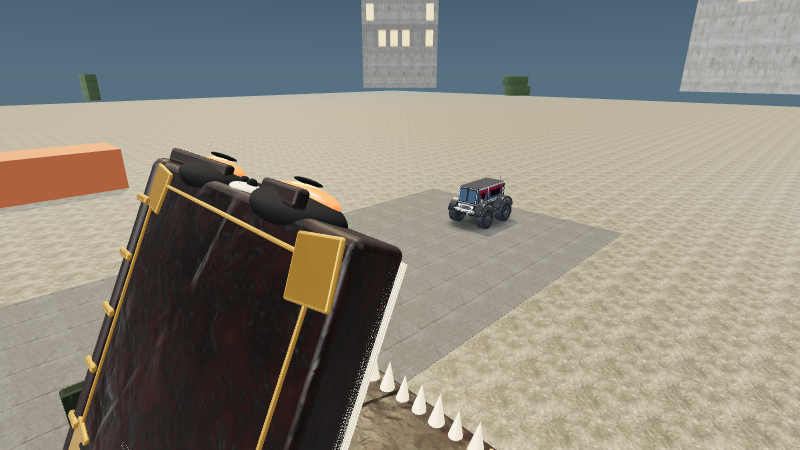
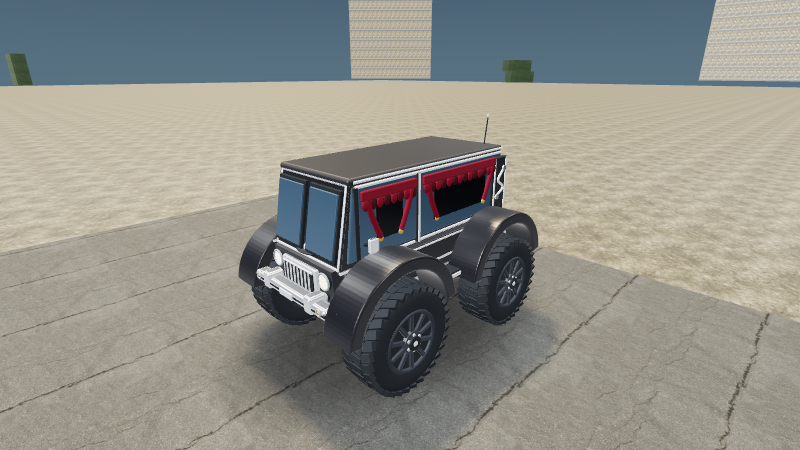
Showroom zoom gate: onboarding test plus capture self-check; recapture hearse/fuel-tanker/golf-cart previews
The hearse, fuel-tanker and golf-cart showroom PNGs showed a wrong-zoom glitch (tiny vehicle, chomp book looming); same transient glitch FIX-4 recaptured for piano/booth. Root-caused as a capture-side flake, not a vehicle defect: solo recaptures are deterministic-clean (bit-identical camera/truck state over repeated runs) and all three definitions sit mid-pack in the garage zoom calibration (9.5-9.8m of a healthy 8.0-13.0m spread). Prevention in both onboarding layers: a headless per-vehicle zoom proof in tests/new-vehicles.test.ts (mirrors vehiclePreview framing math, runs under the pipeline -t gate; mutation-proven RED with a stray mesh, GREEN on revert) and a browser-side zoom self-check with retry in scripts/capture-vehicle-previews.mjs (fails loudly instead of committing an out-of-band preview). Recaptured the three previews (9.93/9.69/9.57m) and verified visually.

diff --git a/tests/new-vehicles.test.ts b/tests/new-vehicles.test.ts
@@ -1,6 +1,7 @@
 import { expect, it } from "vitest";
 import * as T from "three";
 import { PARTS, deformGeometry } from "../src/damage";
+import { bodyBounds } from "../src/headlights";
 import { getVehicle, validateVehicles } from "../src/vehicles";
 import { createHovercraft, hovercraftStats } from "../src/hovercraft";
 import { createSnowGroomer, groomerStats } from "../src/snow-groomer";
@@ -72,6 +73,28 @@ for (const car of NEW_CARS) {
       stats.triangles,
       `${car.id} vs truck`,
     ).toBeGreaterThan(TRUCK_BASELINE.triangles * 0.4);
+  });
+
+  // Onboarding showroom-zoom gate (see the pipeline build prompt step 6):
+  // mirrors GameView.vehiclePreview's framing math (fov 55, 1.03 margin) so a
+  // stray far-flung mesh or an offset build fails here instead of shipping a
+  // wrong-zoom public/vehicles/<id>.png. Band calibrated over the full
+  // garage: healthy distances run 7.99 (sports-car) to 12.96 (stretch-limo);
+  // the hearse/fuel-tanker/golf-cart glitch previews implied ~25m.
+  it(`new-car ${car.id} frames a consistent showroom zoom`, () => {
+    const group = car.build();
+    group.updateMatrixWorld(true);
+    const bounds = bodyBounds(group, null);
+    const center = bounds.getCenter(new T.Vector3());
+    const radius = bounds.getSize(new T.Vector3()).length() / 2;
+    const distance =
+      (radius / Math.sin(T.MathUtils.degToRad(55 / 2))) * 1.03;
+    expect(distance, `${car.id} showroom distance`).toBeGreaterThanOrEqual(7);
+    expect(distance, `${car.id} showroom distance`).toBeLessThanOrEqual(14);
+    expect(Math.abs(center.x), `${car.id} center.x`).toBeLessThanOrEqual(1.5);
+    expect(center.y, `${car.id} center.y`).toBeGreaterThanOrEqual(-1.5);
+    expect(center.y, `${car.id} center.y`).toBeLessThanOrEqual(3);
+    expect(Math.abs(center.z), `${car.id} center.z`).toBeLessThanOrEqual(2.5);
   });
 }
 
